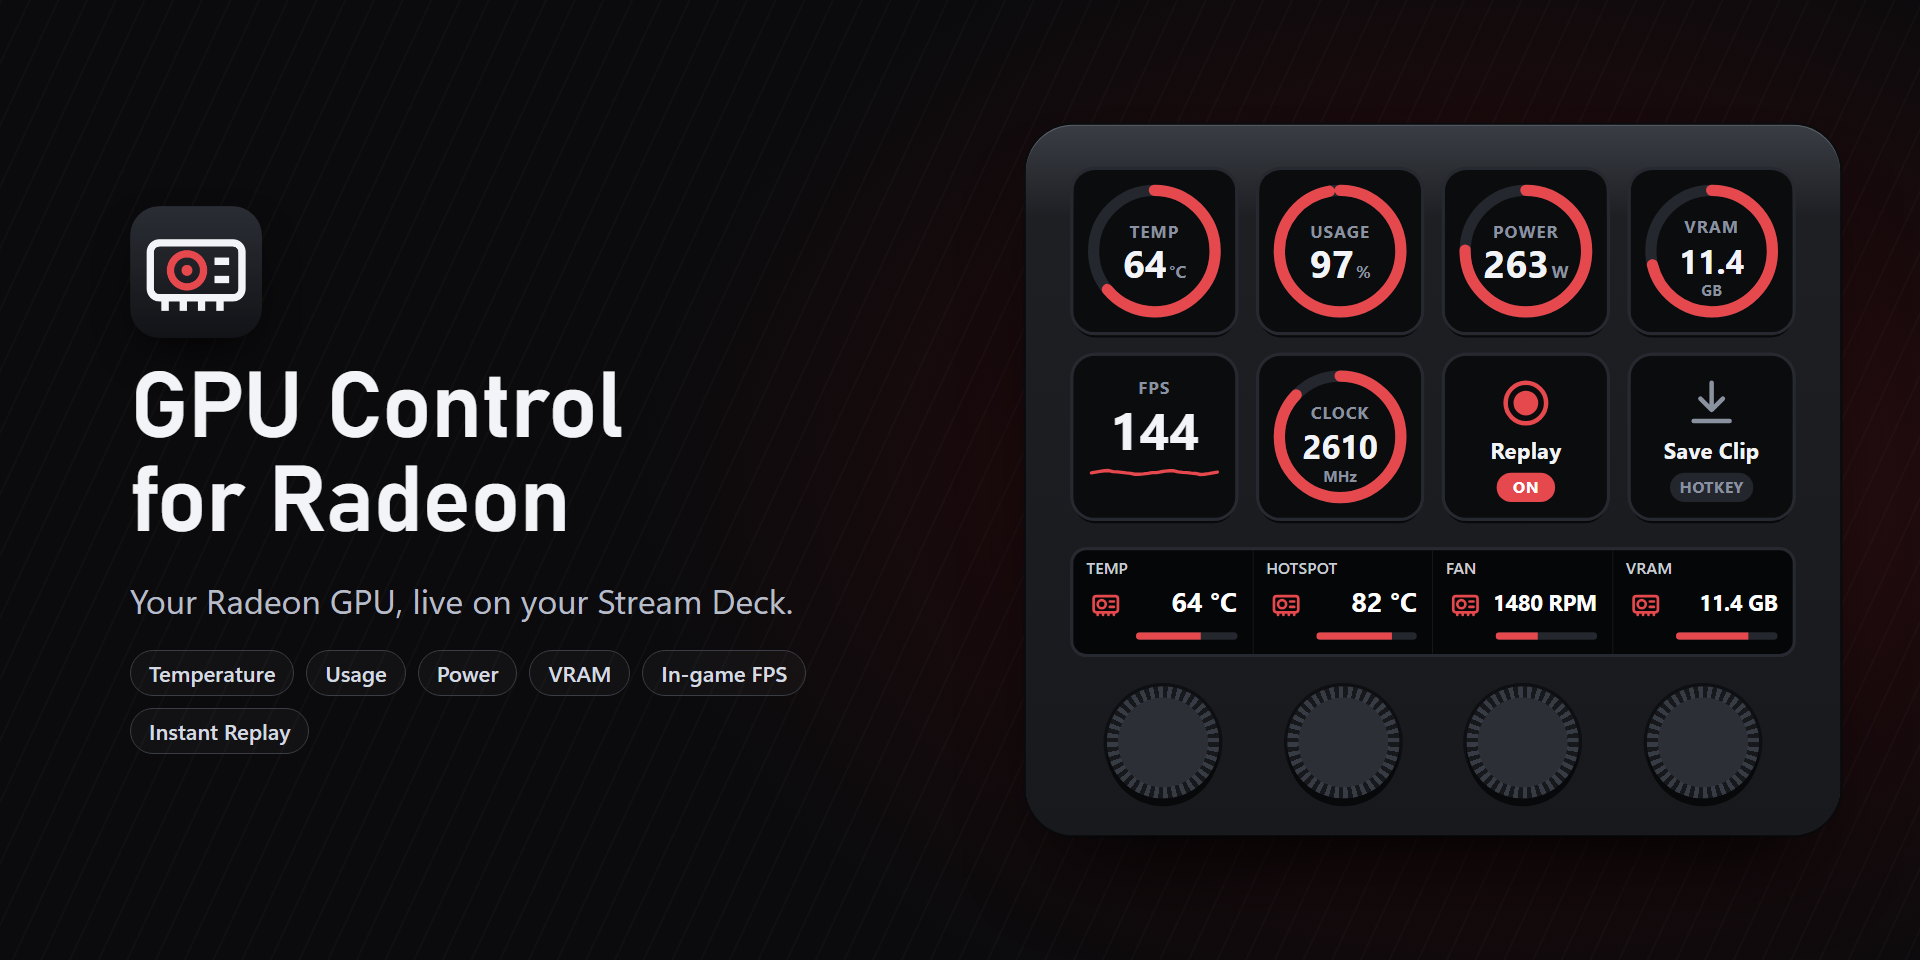
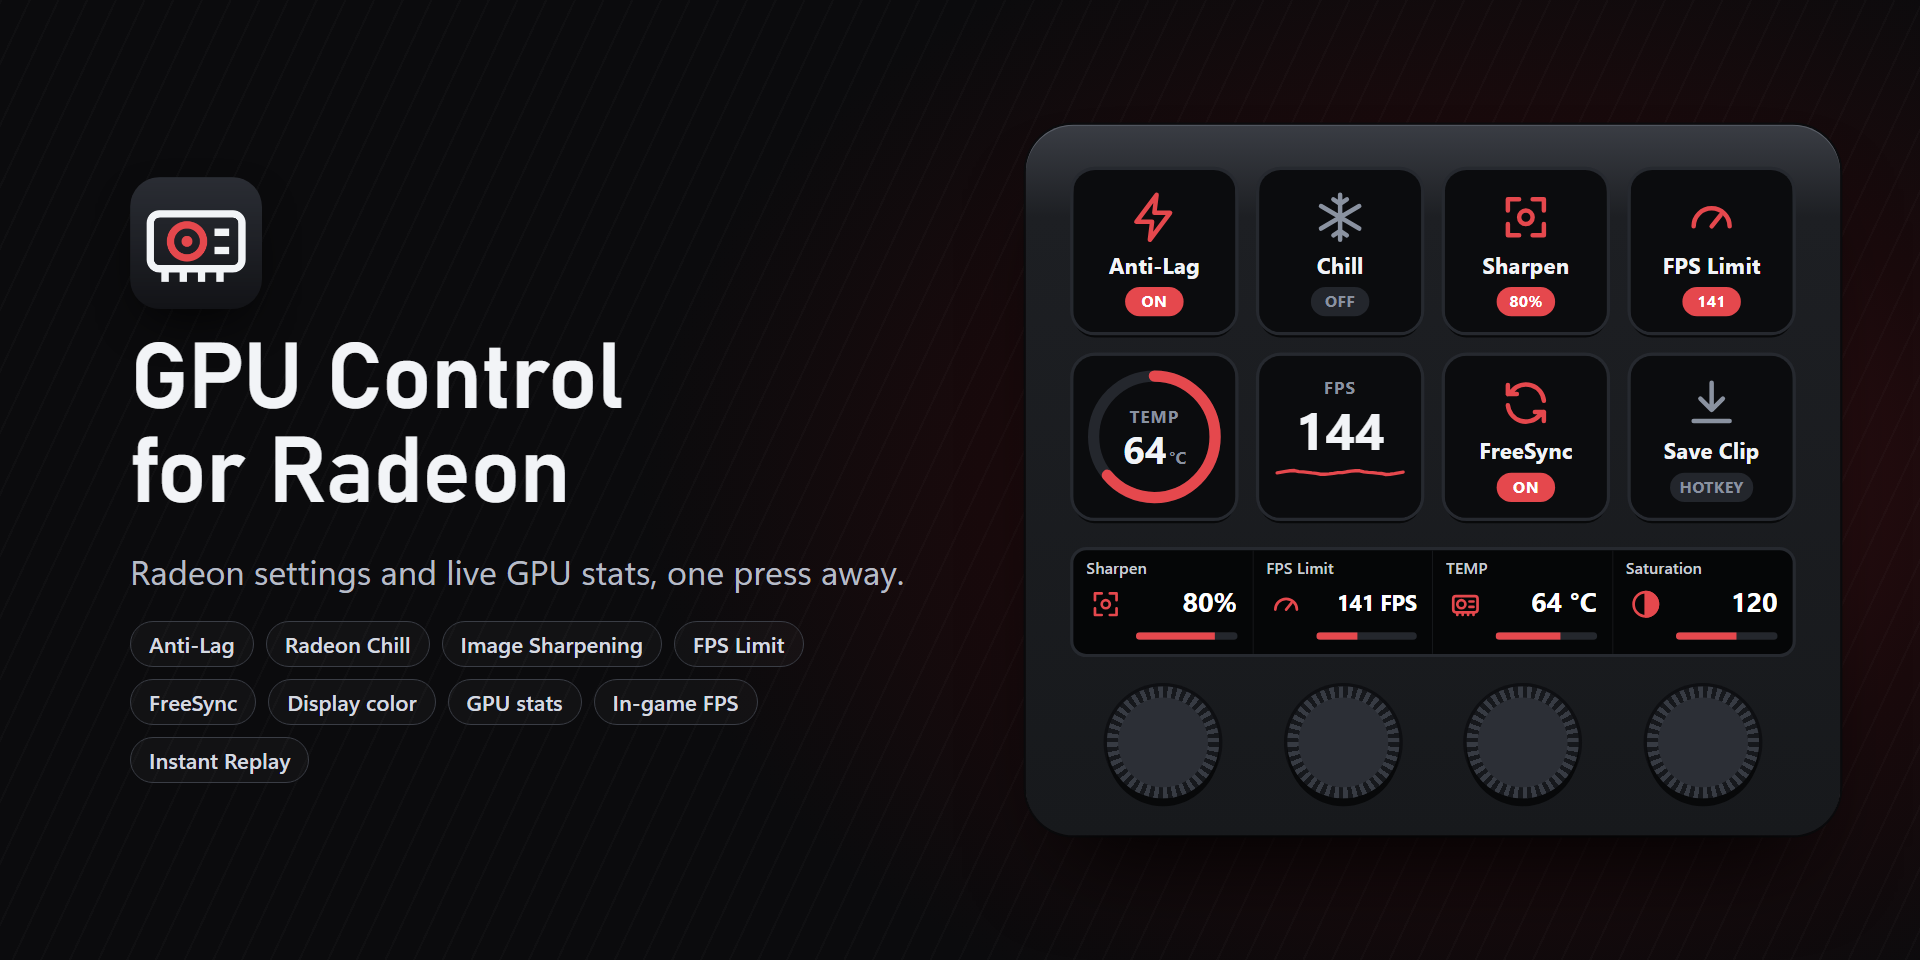
One product with every feature: update README, images and license

diff --git a/README.md b/README.md
@@ -2,12 +2,42 @@
 
 ![GPU Control for Radeon](images/cover.png)
 
-See your AMD Radeon GPU's temperature, usage, power, VRAM and in-game FPS on your Stream Deck, and save Instant Replay clips with one press.
+Switch AMD Radeon settings mid-game from your Stream Deck: Anti-Lag, Radeon Chill, Image Sharpening, FPS Limit, FreeSync and display color. Keep an eye on your GPU with live temperature, usage, power and VRAM readings and in-game FPS, and save Instant Replay clips with one press.
 
 Works on every Stream Deck model with keys. On a Stream Deck +, you can also use the dials and the touch strip.
 
+## Switches
+Anti-Lag, Radeon Chill, Image Sharpening, FPS Limit (Frame Rate Target Control) and FreeSync each have their own action.
+
+**On a key**, choose what it does:
+- **Toggle on / off**
+- **Turn on**
+- **Turn off**
+
+The key always shows the current state, also when you change it in AMD Software. Image Sharpening shows its strength, FPS Limit its limit and Chill its FPS range.
+
+![Anti-Lag, Chill, Image Sharpening, FPS Limit and FreeSync keys](images/switches.png)
+
+**On a dial** (Stream Deck +):
+- **Image Sharpening:** rotate to change the strength, press or tap to switch it on or off
+- **FPS Limit:** rotate to change the limit, press or tap to switch it on or off
+- **Radeon Chill:** rotate to change its maximum FPS, press or tap to switch it on or off
+
+![Sharpening, FPS Limit, Chill and a GPU reading on the Stream Deck + dials](images/dials.png)
+
+> AMD allows only one of Anti-Lag and Radeon Chill at a time: turning one on turns the other off. Both keys update automatically.
+
+![Keys that follow the GPU state](images/sync.png)
+
+## Display Color
+Adjust **saturation**, **brightness**, **contrast** or **color temperature** of a display.
+- **Dial:** rotate to adjust, press or tap to reset to the default
+- **Key:** switch between your own value (for example saturation 130) and the default
+
+![Saturation, brightness, contrast and color temperature on dials](images/color.png)
+
 ## GPU Status
-Shows one GPU reading on a key or on a dial (Stream Deck +):
+Shows one GPU reading on a key or on a dial:
 - Temperature and hotspot temperature
 - GPU usage and power
 - VRAM used, clock speed and fan speed
@@ -17,49 +47,44 @@ The ring turns orange above 85 °C. Readings your GPU doesn't report are marked 
 
 ![All GPU readings](images/metrics.png)
 
-![GPU readings on the Stream Deck + dials](images/dials.png)
-
-## FPS
-Shows the current frame rate of the running game with a graph of the last 30 seconds. Press the key to toggle the AMD metrics overlay. The key shows *no game* when no game is running.
-
-![The FPS key](images/fps.png)
-
-## Instant Replay and Save Clip
+## FPS, Instant Replay and Save Clip
+- **FPS:** the current frame rate of the running game with a graph of the last 30 seconds. Press to toggle the AMD metrics overlay. Shows *no game* when no game is running.
 - **Instant Replay:** turns AMD Instant Replay on or off. If Record & Stream is turned off in AMD Software, the key shows *DISABLED*.
-- **Save Clip:** saves the last moments recorded by Instant Replay. The key confirms with *Saved*.
+- **Save Clip:** saves the last moments recorded by Instant Replay and confirms with *Saved*.
 
-Both keys press your AMD Software hotkeys, so clips are saved where AMD Software saves them.
+These keys press your AMD Software hotkeys, so clips are saved where AMD Software saves them.
 
-![Instant Replay and Save Clip keys](images/replay.png)
+![FPS, Instant Replay and Save Clip keys](images/fps-replay.png)
 
 ## Settings
-- **Show** (GPU Status): the reading to show
-- **Key press** (GPU Status): show the next reading, or do nothing
+- **Key press** (switches): toggle, turn on or turn off
+- **Limit to** (FPS Limit key): the FPS to set when the key turns the limit on; `0` keeps the current limit
+- **Dial step** (Sharpening, FPS Limit, Chill, Display Color): how much each dial click changes
+- **Display** (FreeSync, Display Color): which display to control
+- **Adjust** and **Key value** (Display Color)
+- **Show** and **Key press** (GPU Status)
 - **Adrenalin hotkey** (FPS, Instant Replay, Save Clip): must match the hotkey set in *AMD Software › Settings › Hotkeys*. Pre-filled with `ctrl+shift+o` (Toggle Metrics Overlay), `ctrl+shift+r` (Toggle Instant Replay) and `ctrl+shift+s` (Save Instant Replay); change them if your hotkeys differ
 
-The top of every settings panel shows which GPU the plugin found. Click **Refresh** after installing a new driver.
+The top of every settings panel shows which GPU the plugin found and tells you when a feature isn't available on your GPU or display. Click **Refresh** after installing a new driver.
 
 ## Setup
 1. Install a recent **AMD Software: Adrenalin Edition** driver.
-2. Drag **GPU Status** and **FPS** onto keys or dials.
-3. For clips: in AMD Software, open **Record & Stream**, turn on **Instant Replay**, and check the hotkeys under **Settings › Hotkeys**. Then drag **Instant Replay** and **Save Clip** onto keys.
+2. Drag the actions you want onto keys or dials.
+3. For clips: in AMD Software, open **Record & Stream**, turn on **Instant Replay**, and check the hotkeys under **Settings › Hotkeys**.
 
-If a key shows *NO AMD GPU*, the plugin couldn't find an AMD Radeon GPU or the AMD driver. Install or update AMD Software and click **Refresh** in the settings panel.
+A key showing **N/A** means your GPU, driver or display doesn't offer that feature (for example FreeSync on a display without FreeSync). A key showing **NO AMD GPU** means the plugin couldn't find an AMD Radeon GPU or driver: install or update AMD Software and click **Refresh**.
 
 ## Requirements
 - Windows 10 / 11, Stream Deck 6.9 or later
 - An AMD Radeon graphics card or Radeon graphics in an AMD Ryzen processor, with a recent AMD Software: Adrenalin Edition driver
-- Available readings depend on your GPU. Some, such as power and fan speed, are usually reported only by discrete graphics cards.
+- Available features and readings depend on your GPU, driver and display. Some readings, such as power and fan speed, are usually reported only by discrete graphics cards.
 
-No data leaves your computer.
-
-## Need more control?
-**GPU Control Plus for Radeon** adds Anti-Lag, Radeon Chill, Image Sharpening, FPS Limit and FreeSync switches, Stream Deck + dials to fine-tune them, and display color controls.
+Settings are changed through AMD's official library, the same ones you see in AMD Software. No data leaves your computer.
 
 ## Release notes
 
 ### 1.0.0
-- First release: GPU Status (temperature, hotspot, usage, power, VRAM, clock, fan) on keys and Stream Deck + dials, in-game FPS with a graph, Instant Replay on/off and Save Clip.
+- First release: Anti-Lag, Radeon Chill, Image Sharpening, FPS Limit and FreeSync on keys (toggle / on / off) with live state; Stream Deck + dials for sharpening strength, FPS limit and Chill maximum FPS; Display Color (saturation, brightness, contrast, color temperature) on dials and keys; GPU Status (temperature, hotspot, usage, power, VRAM, clock, fan) on keys and dials; in-game FPS with a graph; Instant Replay and Save Clip.
 
 ## Support
 Open an issue on this page.
@@ -67,4 +92,4 @@ Open an issue on this page.
 ## License
 Copyright © 2026 NiQzen. All rights reserved. Use of the plugin is governed by the end user license agreement in [LICENSE](LICENSE).
 
-AMD, Radeon and FreeSync are trademarks of Advanced Micro Devices, Inc. This plugin is not affiliated with, sponsored or endorsed by AMD. Stream Deck and Elgato are trademarks of Corsair Memory, Inc.
+AMD, Radeon, FreeSync, Radeon Chill and Radeon Anti-Lag are trademarks of Advanced Micro Devices, Inc. This plugin is not affiliated with, sponsored or endorsed by AMD. Stream Deck and Elgato are trademarks of Corsair Memory, Inc.
